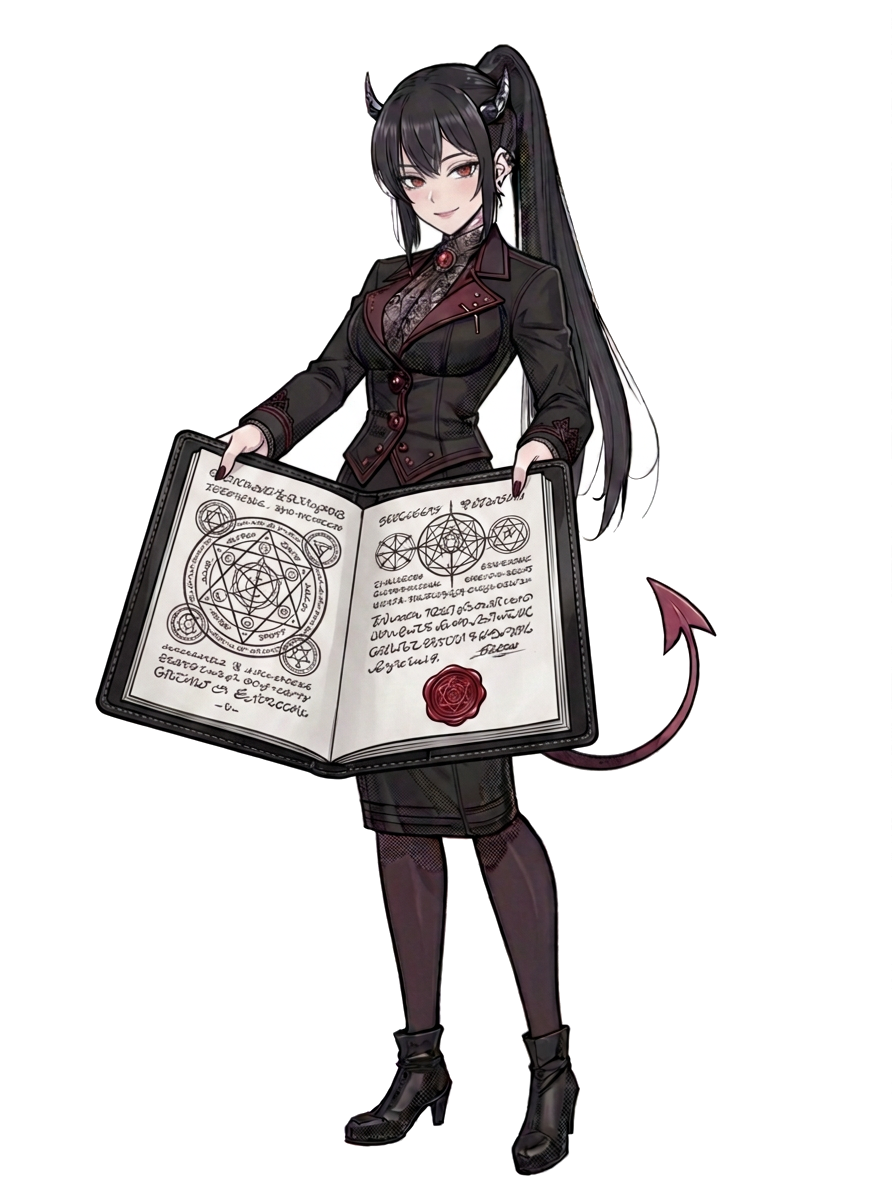
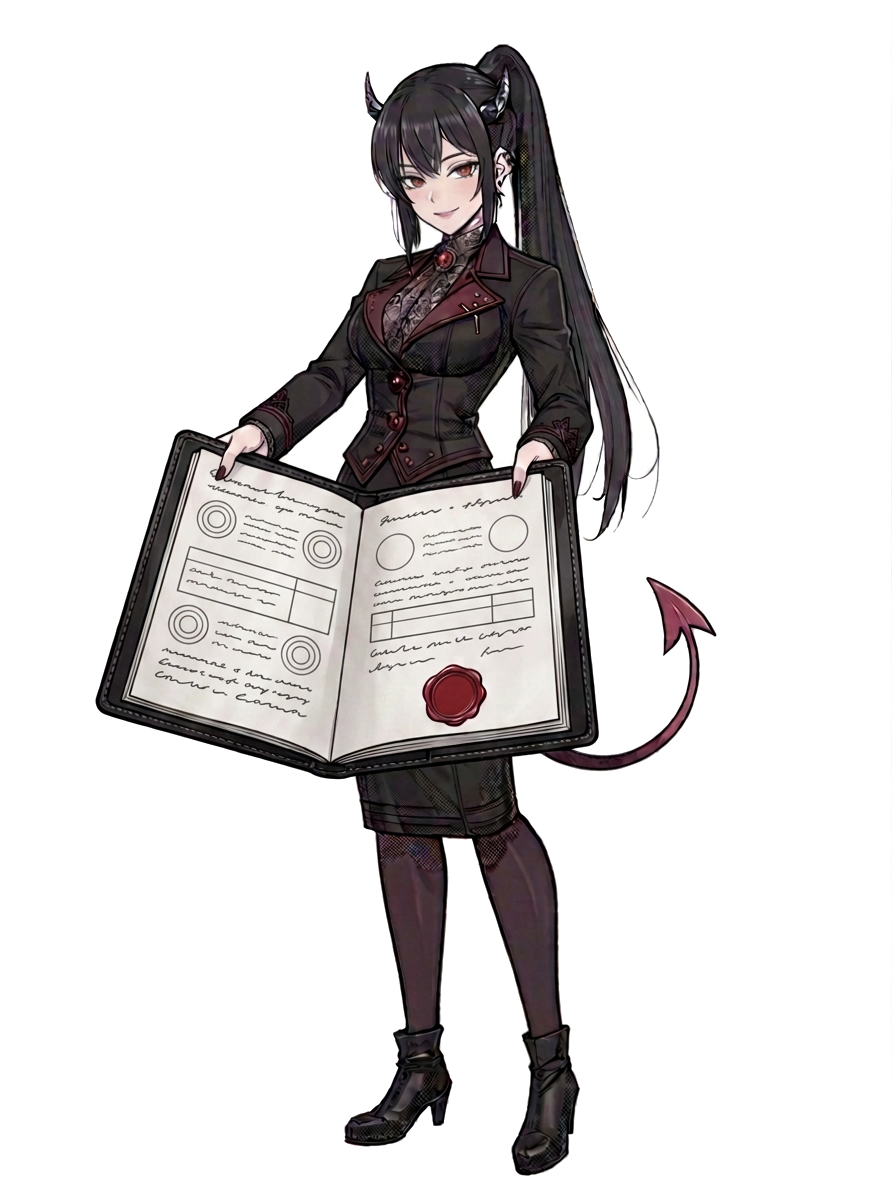
Remove pentagrams from contract, add Valeria human director sprite set and lore

Changed region(s): [[0.1816, 0.37, 0.6054, 0.6167], [0.5448, 0.1233, 0.5751, 0.1542]]

diff --git a/STORY_BIBLE.md b/STORY_BIBLE.md
@@ -51,7 +51,8 @@
 - Из-за удара при падении в плотную материю Мираэль потеряла связь с Верхом и значительную часть памяти, став «падшей по факту превышения полномочий».
 - Из Пекла приходит старший куратор **Валерия** с помощницей **Никой**, чтобы забрать Мираэль как списанный актив.
 - **Парадокс:** по межведомственному регламенту ангел-хранитель жёстко привязан к полису подопечного до момента его фактической смерти. Саша жив, хотя по документам мёртв.
-- Пока небесная и адская канцелярии проводят **21-дневную кассационную сверку реестра**, Саша находится в квантовой суперпозиции между жизнью и смертью (благодаря чему видит духовных существ и «швы» мира).
+- **Пока небесная и адская канцелярии проводят 21-дневную кассационную сверку реестра**, Саша находится в квантовой суперпозиции между жизнью и смертью (благодаря чему видит духовных существ и «швы» мира).
+- **Закон материализации и земного облика:** Духовные существа (как ангелы, так и демоны) способны материализовываться в мире людей, но для обычных окружающих и при работе «под прикрытием» они выглядят как обычные люди — без крыльев, рогов и хвостов, с человеческим оттенком глаз. Так как Саша застрял между жизнью и смертью, в зависимости от ситуации и степени давления он способен видеть как их земную оболочку, так и истинный духовный облик.
 - Валерия не имеет права убить Сашу физически или подстроить прямое убийство — это аннулирует её права на актив. Ей нужно, чтобы за 21 день Саша **добровольно подписал контракт** на передачу души. Если же за 21 день статус Саши не будет урегулирован, система автоматически приведёт смертный приговор в исполнение.
 
 ### 3.2. Верх (Мир бесконфликтного покоя)
@@ -93,7 +94,8 @@
 
 ### 4.3. Валерия (Валефор) — Куратор из Пекла
 - **Роль:** Ветка интеллектуальной дуэли, манипуляций, риска и готической страсти.
-- **Внешность:** Высокая, статная женщина в безупречном викторианском костюме с тёмно-бордовым бархатом, кружевным жабо, часами на цепочке и папкой из тиснёной кожи. Пахнет старой бумагой, бергамотом и холодным дымом.
+- **Истинный (демонический) облик:** Высокая, статная женщина с длинными чёрными волосами, собранными в высокий хвост, алыми глазами, тонкими заколками в виде рогов в волосах и демоническим хвостом; одета в приталенный чёрно-бордовый викторианский костюм с кружевным воротником и рубиновой брошью, юбку-карандаш, тёмные чулки и ботильоны; в руке — кожаная папка с застёжкой.
+- **Земное прикрытие и человеческий облик:** В нашем мире Валерия официально возглавляет крупную юридическую компанию (директор фирмы, через которую Пекло легально оформляет трасты, страховки и долговые обязательства, включая контракт Артёма). В человеческом облике у неё та же высокая причёска в хвост, но **нет рогов и демонического хвоста**, глаза **тёмно-карие с лёгким красноватым отливом**, а одета она строго и элегантно: **серая рубашка, чёрная юбка-карандаш, чулки и классические туфли на каблуке**.
 - **Происхождение и ранг:** Очень древний демон (в нынешнем обличье закрепилась в викторианскую эпоху; чем старше демон в Пекле, тем он могущественнее и выше по статусу).
 - **Символика имени:** **Валефор (Valefor / Malephar)** — герцог Гоэтии, который славится тем, что входит в доверие к людям как мягкий, обходительный покровитель и друг, пока они сами не окажутся на крючке.
 - **Методы и характер:** Не устраивает грубых запугиваний. Действует тонко: закрывает Саше долг за аренду, «случайно» решает его проблемы, водит в закрытые места города, проверяет его на жадность, ревность и страх одиночества. За её многовековой выдержкой скрывается ледяное одиночество существа, которое за сотни лет не встречало никого, кто говорил бы с ней на равных без корысти и раболепия.
